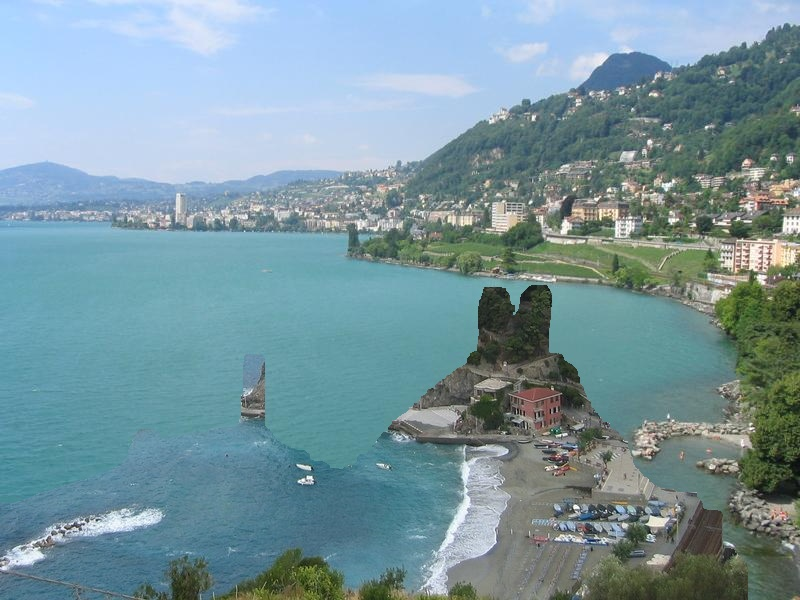
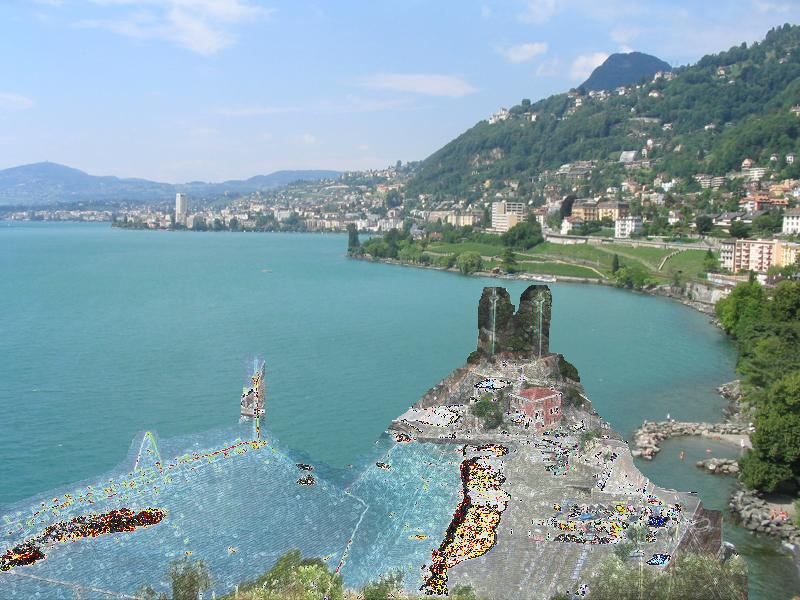
temp stage

Changed region(s): [[0.0, 0.48, 0.9375, 1.0]]

diff --git a/complete.py b/complete.py
@@ -15,20 +15,22 @@ from scipy.signal import convolve2d
 def prepare_images(input_path, mask_path, patch_path):
     input_img = cv2.imread(input_path)
     mask_img = cv2.imread(mask_path, 0)
+    mask_img = mask_img.astype(bool)
     mask_img = np.invert(mask_img)
     patch_img = cv2.imread(patch_path)
     return input_img, mask_img, patch_img
 
 def dilate_mask(mask_img, k=3):
     kernel = np.ones((k, k), np.uint8)
-    dilated_mask = cv2.dilate(mask_img, kernel, iterations=3)
-    return dilated_mask
+    mask_img = mask_img.astype(np.uint8) * 255
+    dilated_mask = cv2.dilate(mask_img, kernel, iterations=5)
+    return np.clip(dilated_mask, 0, 1)
 
 def mask_image(input_img, mask_img):
     # 将mask_img转换为bool类型的mask
     mask_img = mask_img.astype(bool)
     masked_img = input_img.copy()
-    masked_img[mask_img==0] = 0    
+    masked_img[mask_img] = 0    
     return masked_img
 
 def get_patch(patch_shape, patch_img, best_match):
@@ -77,6 +79,7 @@ def find_best_match(masked_region, patch_img):
 
 # 在待补全的图像和补丁图像（用于填补空缺的图像）之间找到最佳的融合边界
 def find_boundary_graphcut(incomplete_img, patch_img, mask):
+    mask = mask.astype(np.uint8) * 255
     # 创建一个图
     g = maxflow.Graph[float]()
 
@@ -114,8 +117,16 @@ def poisson_blend(patch, mask, sgm, dest):
         sgm (_type_): 使用GraphCut得到的分割结果
         dest (_type_): 待补全的图像，已经经过mask处理
     """
+    # 将mask转换为bool类型
+    mask = mask.astype(bool)
+    sgm = sgm.astype(bool)
     # 计算融合边界
     boundary = np.logical_xor(sgm, mask)
+    plt.imshow(boundary)
+    plt.show()
+    # boundary = sgm - mask
+    patch = patch.astype(np.float64)
+    dest = dest.astype(np.float64)
     # 对于Poisson Blending，首先需要构建系数矩阵A和b
     # 首先给mask部分的像素编号，编号的顺序是从左到右，从上到下
     n_pixels = np.sum(sgm)
@@ -125,57 +136,122 @@ def poisson_blend(patch, mask, sgm, dest):
         if sgm[i, j]:
             pixel_dict[(i, j)] = pixel_index
             pixel_index += 1
-
+    def neighbors_with_mask(img, mask, i, j, c):
+        up = img[i-1, j, c] if i > 0 and mask[i-1, j] else 0
+        down = img[i+1, j, c] if i < img.shape[0]-1 and mask[i+1, j] else 0
+        left = img[i, j-1, c] if j > 0 and mask[i, j-1] else 0
+        right = img[i, j+1, c] if j < img.shape[1]-1 and mask[i, j+1] else 0
+        return up, down, left, right
+    
+    def neighbors(img, i, j, c):
+        up = img[i-1, j, c] if i > 0 else 0
+        down = img[i+1, j, c] if i < img.shape[0]-1 else 0
+        left = img[i, j-1, c] if j > 0 else 0
+        right = img[i, j+1, c] if j < img.shape[1]-1 else 0
+        return up, down, left, right
+    def neighbor_flag(img, mask, i, j, c):
+        up = img[i-1, j, c] if i > 0 and mask[i-1, j] else 0
+        down = img[i+1, j, c] if i < img.shape[0]-1 and mask[i+1, j] else 0
+        left = img[i, j-1, c] if j > 0 and mask[i, j-1] else 0
+        right = img[i, j+1, c] if j < img.shape[1]-1 and mask[i, j+1] else 0
+        return up, down, left, right
     # 针对每个channel，构建系数矩阵A和b
     for color in range(3):
         # 构建系数矩阵A和指导向量b
         # A 就是一个对角矩阵，对角线上的元素为4，对应像素的相邻元素为-1
-        A = lil_matrix((n_pixels, n_pixels))
-        for i in range(n_pixels):
-            A[i, i] = 4
-            if i-1 >= 0:
-                A[i, i-1] = -1
-            if i+1 < n_pixels:
-                A[i, i+1] = -1
-            if i-sgm.shape[1] >= 0:
-                A[i, i-sgm.shape[1]] = -1
-            if i+sgm.shape[1] < n_pixels:
-                A[i, i+sgm.shape[1]] = -1
-        
-        # b 是一个向量，每个元素为对应像素的梯度
-        patch_flat = []
+        A = lil_matrix((n_pixels, n_pixels), dtype=np.float64)
+        b = np.zeros((n_pixels,), dtype=np.float64)
         for (i, j), pid in pixel_dict.items():
+            A[pid, pid] = 4
+            if (i-1, j) in pixel_dict:
+                A[pid, pixel_dict[(i-1, j)]] = -1
+            if (i+1, j) in pixel_dict:
+                A[pid, pixel_dict[(i+1, j)]] = -1
+            if (i, j-1) in pixel_dict:
+                A[pid, pixel_dict[(i, j-1)]] = -1
+            if (i, j+1) in pixel_dict:
+                A[pid, pixel_dict[(i, j+1)]] = -1
+            # TODO: 这里的边界条件需要修改
             if boundary[i, j]:
-                patch_flat.append(dest[i, j, color])
+                up, down, left, right = neighbors_with_mask(dest, mask==0, i, j, color)
+                b[pid] = 4 * dest[i, j, color] - up - down - left - right
             else:
-                patch_flat.append(patch[i, j, color])
-            # patch_flat.append(patch[i, j, color])
+                up, down, left, right = neighbors_with_mask(patch, sgm, i, j, color)
+                b[pid] = 4 * patch[i, j, color] - up - down - left - right
+                # flags = neighbor_flag(patch, sgm, i, j, color)
+                # up, down, left, right = neighbors(dest, i, j, color)
+                # if flags[0]:
+                #     b[pid] += up
+                # if flags[1]:
+                #     b[pid] += down
+                # if flags[2]:
+                #     b[pid] += left
+                # if flags[3]:
+                #     b[pid] += right
             
-        b = A.dot(patch_flat)
+        # 解线性方程组
         x = spsolve(A.tocsr(), b)
         print(x)
-        # 将解写入dest
+        x = np.clip(x, 0, 255)
+        # 将解的结果写回dest
         for (i, j), pid in pixel_dict.items():
-            dest[i, j, color] = x[pid]
-
+            dest[i, j, color] += x[pid]
+        
     return dest
 
 def complete_image(input_path, mask_path, patch_path, i):
     # 准备图像
     input_img, mask_img, patch_img = prepare_images(input_path, mask_path, patch_path)
+    stage1 = input_img.copy()
     # 膨胀mask
     dilated_mask = dilate_mask(mask_img)
     # 被mask的区域
-    masked_region = mask_image(input_img, dilated_mask)
-    incomplete_region = input_img - masked_region
+    incomplete_img = mask_image(input_img, dilated_mask)
+    masked_region = input_img - incomplete_img
     # 找到最佳匹配位置
     best_match = find_best_match(masked_region, patch_img)
     # 裁切出patch
     patch = get_patch(masked_region.shape, patch_img, best_match)
     # 使用GraphCut找到融合边界
-    sgm = find_boundary_graphcut(incomplete_region, patch, dilated_mask)
+    sgm = find_boundary_graphcut(input_img, patch, dilated_mask)
+    stage2 = stage1.copy()
+    stage2[sgm] = 0
+    stage3 = patch.copy()
+    stage3[sgm==0] = 0
     # 使用Poisson Blending融合两部分图片
-    blended = poisson_blend(patch, dilated_mask, sgm, input_img)
-    cv2.imwrite(f'complete{i}.jpg', blended)
+    blended = poisson_blend(patch, dilated_mask, sgm, input_img).astype(np.uint8)
+    return stage1, stage2, stage2+stage3, blended
 
-completed_img = complete_image('data/completion/input1.jpg', 'data/completion/input1_mask.jpg', 'data/completion/input1_patch.jpg', 1)
+plt.figure()
+n = 1
+for i in range(1, n+1):
+    input_img, incomplete, naive, blended = complete_image(f'data/completion/input{i}.jpg', f'data/completion/input{i}_mask.jpg', f'data/completion/input{i}_patch.jpg', i)
+    plt.subplot(n, 4, i*4-3)
+    plt.imshow(cv2.cvtColor(input_img, cv2.COLOR_BGR2RGB))
+    plt.title(f'Input {i}')
+    plt.axis('off')
+    plt.subplot(n, 4, i*4-2)
+    plt.imshow(cv2.cvtColor(incomplete, cv2.COLOR_BGR2RGB))
+    plt.title(f'Incomplete {i}')
+    plt.axis('off')
+    plt.subplot(n, 4, i*4-1)
+    plt.imshow(cv2.cvtColor(naive, cv2.COLOR_BGR2RGB))
+    plt.title(f'Naive {i}')
+    plt.axis('off')
+    plt.subplot(n, 4, i*4)
+    plt.imshow(cv2.cvtColor(blended, cv2.COLOR_BGR2RGB))
+    plt.title(f'Poisson Blended {i}')
+    plt.axis('off')
+plt.show()
+
+# plt.figure()
+# input_path = "data/test/input1.png"
+# mask_path = "data/test/input1_mask.png"
+# patch_path = "data/test/input1_patch.png"
+# input_img, mask_img, patch_img = prepare_images(input_path, mask_path, patch_path)
+# sgm = dilate_mask(mask_img)
+# # sgm = mask_img
+# plt.imshow(sgm)
+# plt.show()
+# blended =  poisson_blend(patch_img, mask_img, sgm, input_img)
+# cv2.imwrite("data/test/input1_blended.png", blended)
